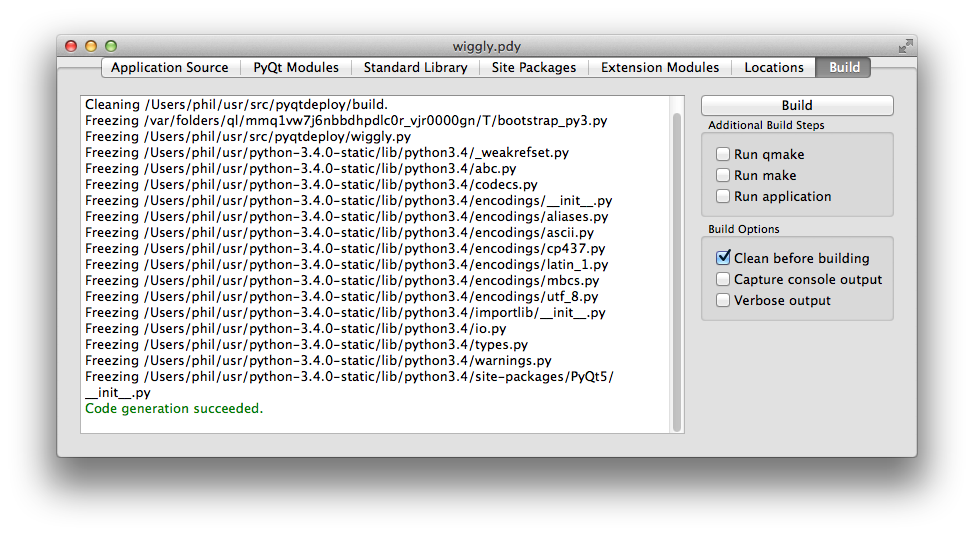
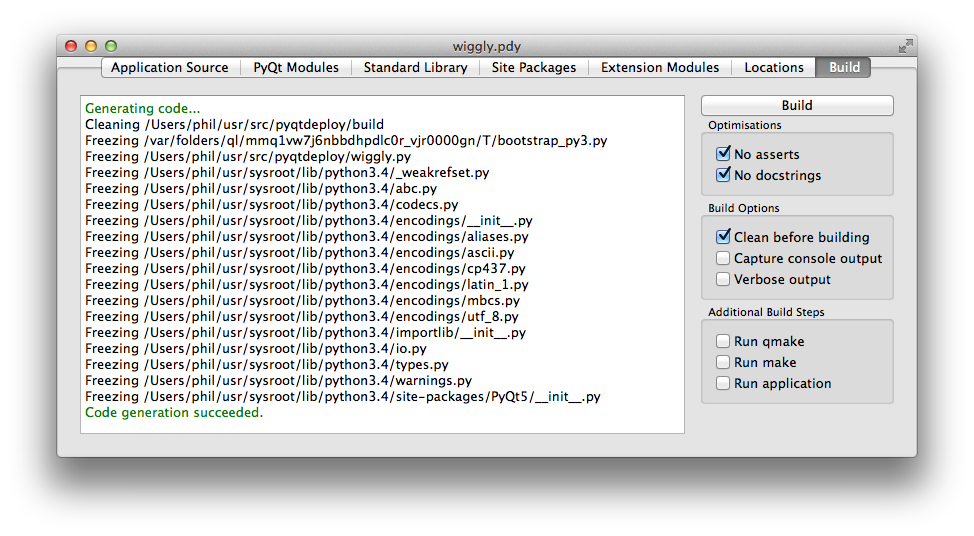
Added the optimisation buttons to the build tab.

Changed region(s): [[0.0616, 0.1791, 0.6468, 0.7761], [0.6776, 0.209, 0.924, 0.806], [0.7392, 0.6269, 0.8624, 0.7463]]

diff --git a/pyqtdeploy/gui/build_page.py b/pyqtdeploy/gui/build_page.py
@@ -57,10 +57,36 @@ class BuildPage(QWidget):
         layout = QGridLayout()
 
         self._log_viewer = QPlainTextEdit(readOnly=True)
-        layout.addWidget(self._log_viewer, 0, 0, 4, 1)
+        layout.addWidget(self._log_viewer, 0, 0, 5, 1)
 
         build = QPushButton("Build", clicked=self._build)
         layout.addWidget(build, 0, 1)
+
+        optimisation = QGroupBox("Optimisations")
+        optimisation_layout = QVBoxLayout()
+
+        self._opt1_button = QCheckBox("No asserts", checked=True,
+                stateChanged=self._opt1_changed)
+        optimisation_layout.addWidget(self._opt1_button)
+        self._opt2_button = QCheckBox("No docstrings", checked=True,
+                stateChanged=self._opt2_changed)
+        optimisation_layout.addWidget(self._opt2_button)
+
+        optimisation.setLayout(optimisation_layout)
+        layout.addWidget(optimisation, 1, 1)
+
+        options = QGroupBox("Build Options")
+        options_layout = QVBoxLayout()
+
+        self._clean_button = QCheckBox("Clean before building", checked=True)
+        options_layout.addWidget(self._clean_button)
+        self._console_button = QCheckBox("Capture console output")
+        options_layout.addWidget(self._console_button)
+        self._verbose_button = QCheckBox("Verbose output")
+        options_layout.addWidget(self._verbose_button)
+
+        options.setLayout(options_layout)
+        layout.addWidget(options, 2, 1)
 
         steps = QGroupBox("Additional Build Steps")
         steps_layout = QVBoxLayout()
@@ -76,22 +102,9 @@ class BuildPage(QWidget):
         steps_layout.addWidget(self._run_application_button)
 
         steps.setLayout(steps_layout)
-        layout.addWidget(steps, 1, 1)
+        layout.addWidget(steps, 3, 1)
 
-        options = QGroupBox("Build Options")
-        options_layout = QVBoxLayout()
-
-        self._clean_button = QCheckBox("Clean before building", checked=True)
-        options_layout.addWidget(self._clean_button)
-        self._console_button = QCheckBox("Capture console output")
-        options_layout.addWidget(self._console_button)
-        self._verbose_button = QCheckBox("Verbose output")
-        options_layout.addWidget(self._verbose_button)
-
-        options.setLayout(options_layout)
-        layout.addWidget(options, 2, 1)
-
-        layout.setRowStretch(3, 1)
+        layout.setRowStretch(4, 1)
 
         self.setLayout(layout)
 
@@ -126,8 +139,15 @@ class BuildPage(QWidget):
         logger.clear()
         logger.status_message("Generating code...")
 
+        if self._opt2_button.checkState():
+            opt = 2
+        elif self._opt1_button.checkState():
+            opt = 1
+        else:
+            opt = 0
+
         try:
-            builder.build(clean=bool(self._clean_button.checkState()),
+            builder.build(opt, clean=bool(self._clean_button.checkState()),
                     console=bool(self._console_button.checkState()))
         except UserException as e:
             logger.user_exception(e)
@@ -199,6 +219,18 @@ class BuildPage(QWidget):
         QMessageBox.warning(self, self.label,
                 "The project cannot be built because the name of the {0} has "
                         "not been set.".format(missing))
+
+    def _opt1_changed(self, state):
+        """ Invoked when the user clicks on the no asserts button. """
+
+        if state == Qt.Unchecked:
+            self._opt2_button.setCheckState(Qt.Unchecked)
+
+    def _opt2_changed(self, state):
+        """ Invoked when the user clicks on the no docstrings button. """
+
+        if state == Qt.Checked:
+            self._opt1_button.setCheckState(Qt.Checked)
 
     def _run_qmake_changed(self, state):
         """ Invoked when the user clicks on the run qmake button. """

diff --git a/doc/tutorial.rst b/doc/tutorial.rst
@@ -231,6 +231,28 @@ The main area of the tab shows the output of the various stages of the build.
     What else is done depends on the additional build steps that have been
     specified.
 
+**No asserts**
+    is clicked to specify that all ``assert`` statements should be removed from
+    frozen Python code.
+
+**No docstrings**
+    is clicked to specify that all docstrings should be removed from frozen
+    Python code.
+
+**Clean before building**
+    is clicked to specify that the build directory is deleted and recreated
+    before starting a new build.
+
+**Capture console output**
+    is clicked to specify that ``console`` is always added to the ``CONFIG``
+    variable in the generated ``.pro`` file.  This is only useful on Windows
+    and ensures that, even for a GUI application, tracebacks (e.g. about
+    missing modules) are captured and displayed.
+
+**Verbose output**
+    is clicked specify that additional information is displayed during the
+    build process.
+
 **Run qmake**
     is clicked to specify that :program:`qmake` will be run after generating
     the application code.  If this is disabled the later build steps will be
@@ -250,20 +272,6 @@ The main area of the tab shows the output of the various stages of the build.
     .. note::
         This only makes sense if you are building natively and not
         cross-compiling.
-
-**Clean before building**
-    is clicked to specify that the build directory is deleted and recreated
-    before starting a new build.
-
-**Capture console output**
-    is clicked to specify that ``console`` is always added to the ``CONFIG``
-    variable in the generated ``.pro`` file.  This is only useful on Windows
-    and ensures that, even for a GUI application, tracebacks (e.g. about
-    missing modules) are captured and displayed.
-
-**Verbose output**
-    is clicked specify that additional information is displayed during the
-    build process.
 
 
 Creating a Deployable Package
